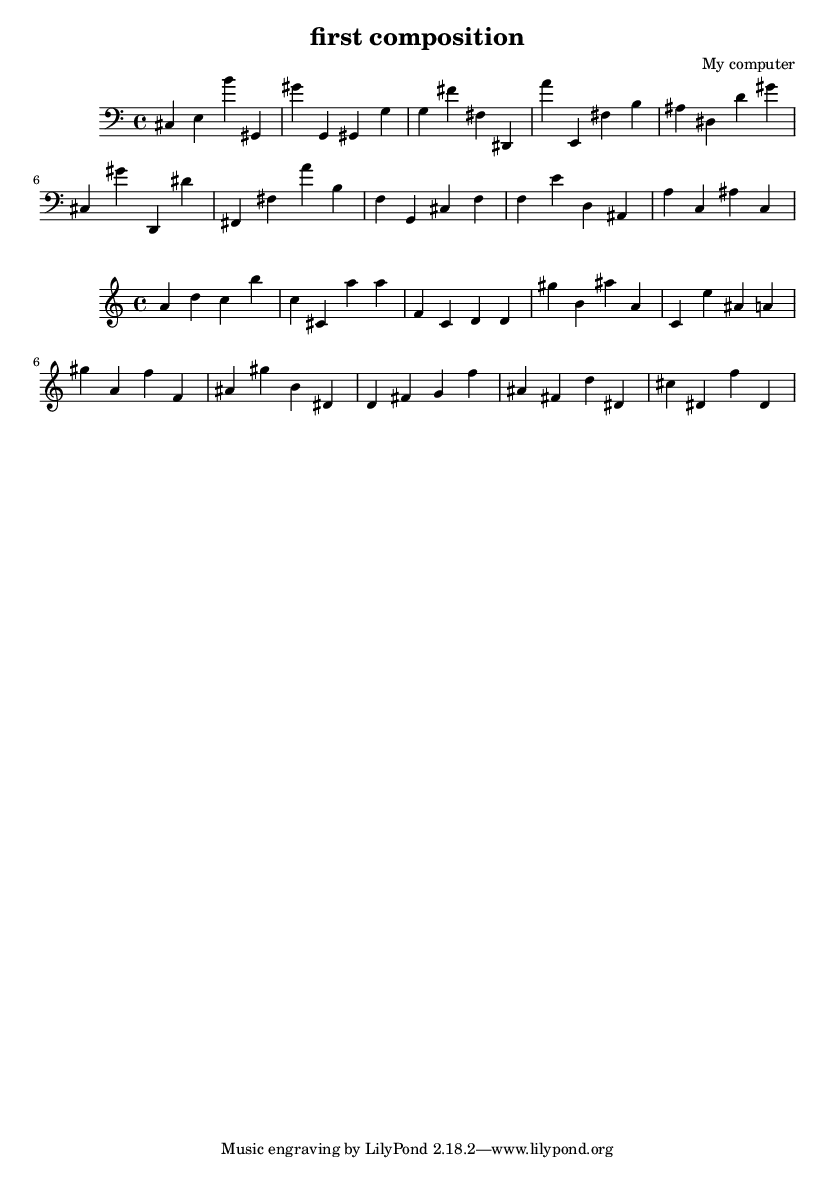
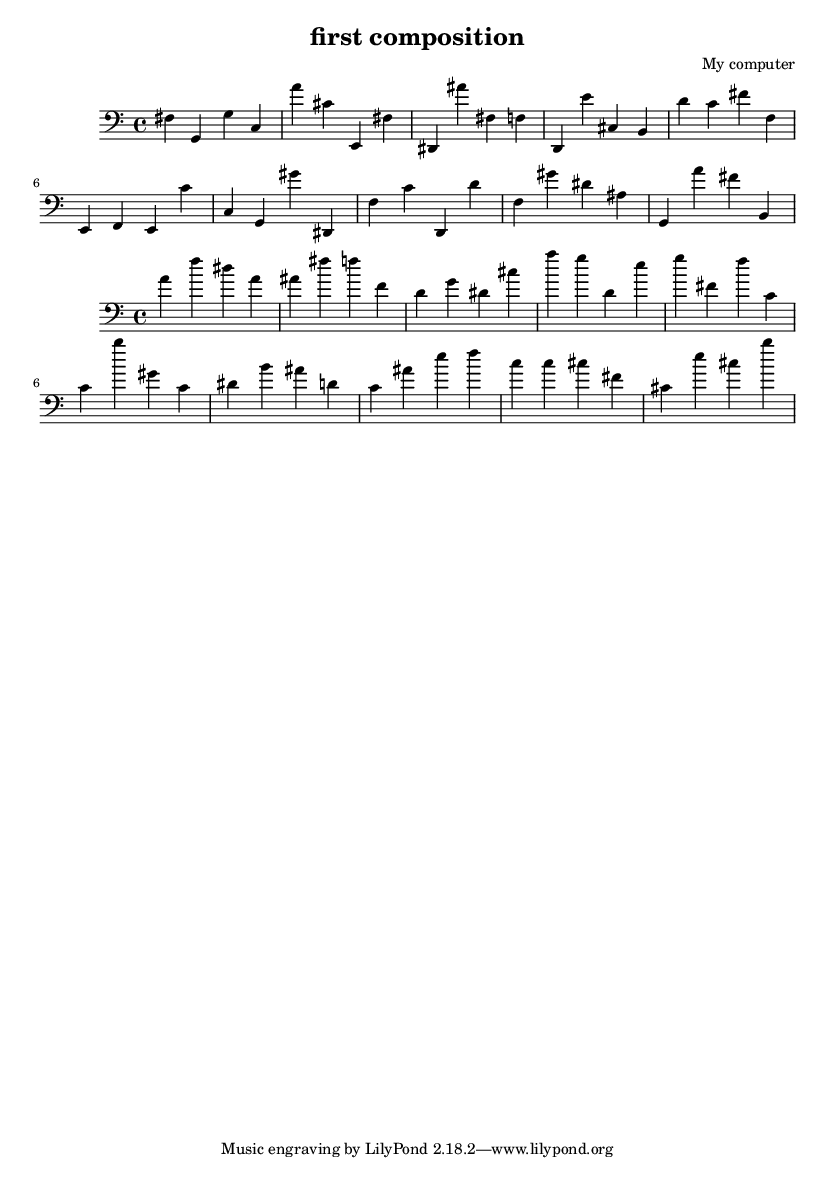
it works like mostly with the bass clef thing. add stuff like optional bass clef stuff or cmd line args

Changed region(s): [[0.0311, 0.061, 0.9653, 0.3658]]

diff --git a/test7.py b/test7.py
@@ -1,4 +1,5 @@
 import os
+import sys
 import mingus.core.notes as notes
 import mingus.core.meter as meter
 from mingus.containers.instrument import Instrument, Piano
@@ -20,6 +21,7 @@ t = Track(Piano)
 t1 = Track(Bass)
 t1.clef = "bass"
 
+#make this better.
 def getbar(b, l, h):
     for y in range(0,4):
         randoct = random.randint(l,h)    #
@@ -42,15 +44,32 @@ c + t
 c + t1
 #bar = lilypond.from_Bar(b)
 #track = lilypond.from_Track(t)
-composition = lilypond.from_Composition(c)
-i = j = 0
-while(composition[i] != '{' or j != 2):
-    if(composition[i] == '{'):
-        j+=1
+composition = lilypond.from_Composition(c)  #this is just a string
+i = 0
+j = 2
+li = []
+for x in (range(0,len(composition))):   #we can mess with the string and add bass clef to anything
+    if (composition[i] == '{' and composition[j] == '{' and composition[j-1] == ' '):
+        li.append([i,j])
     i+=1
-print(i, j)
-print(composition)
-composition = composition[:i] + "\clef bass " + composition[i:]
-print(composition)
+    j+=1
+
+#print(i, j)
+print(f'li = {li}')
+#the reason for the +(13*x) is because 13 is the amount of space that the string adds, and we need to add it to
+#the end of the file anyways. however many times we have instruments or it is triggered, we must add it there.
+#indexing issue
+for x in range(0,len(li)):
+   composition = composition[:li[x][0]+(13*x)] + "{ \clef bass " + composition[li[x][1]+(13*x):] 
+print('postfuckery', composition)
+
+print('***********<lilypond starting>************')
 lilypond.to_png(composition, "test")
+print('*********<nomacs starting>*********')
 os.system('nomacs test.png')
+
+def main():
+
+
+if __name__ is "__main__":
+    main()

diff --git a/test6.py b/test6.py
@@ -43,14 +43,26 @@ c + t1
 #bar = lilypond.from_Bar(b)
 #track = lilypond.from_Track(t)
 composition = lilypond.from_Composition(c)
-i = j = 0
-while(composition[i] != '{' or j != 2):
-    if(composition[i] == '{'):
-        j+=1
+print('prefuckery ', composition)
+i = 0
+j = 2
+li = []
+for x in (range(0,len(composition))):
+    if (composition[i] == '{' and composition[j] == '{' and composition[j-1] == ' '):
+        li.append([i,j])
     i+=1
-print(i, j)
-print(composition)
-composition = composition[:i] + "\clef bass " + composition[i:]
-print(composition)
+    j+=1
+
+#print(i, j)
+print(f'li = {li}')
+#the reason for the +(13*x) is because 13 is the amount of space that the string adds, and we need to add it to
+#the end of the file anyways. however many times we have instruments or it is triggered, we must add it there.
+#indexing issue
+for x in range(0,len(li)):
+   composition = composition[:li[x][0]+(13*x)] + "{ \clef bass " + composition[li[x][1]+(13*x):] 
+print('postfuckery', composition)
+
+print('***********<lilypond starting>************')
 lilypond.to_png(composition, "test")
+print('*********<nomacs starting>*********')
 os.system('nomacs test.png')
